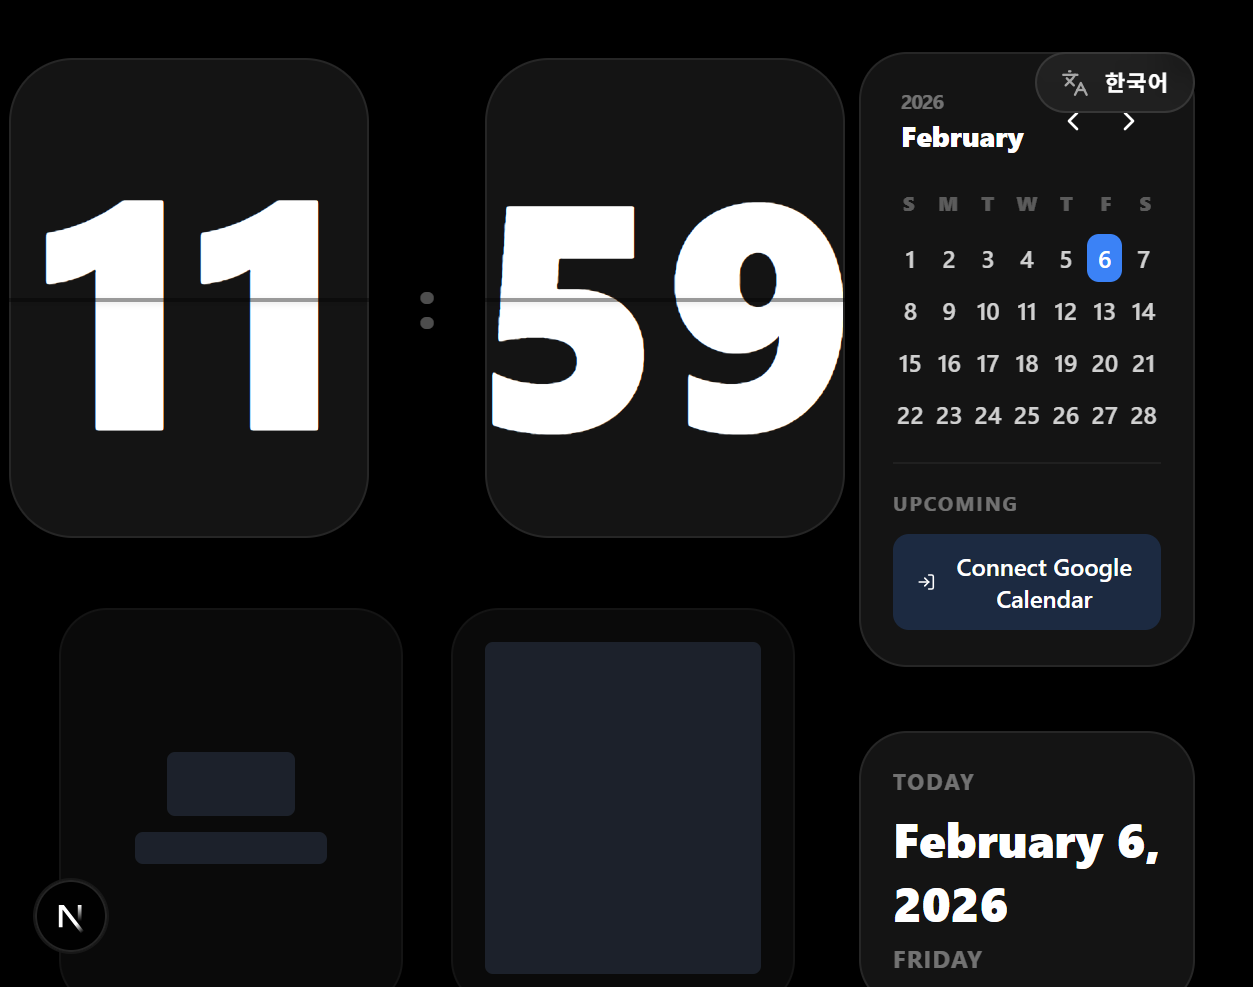
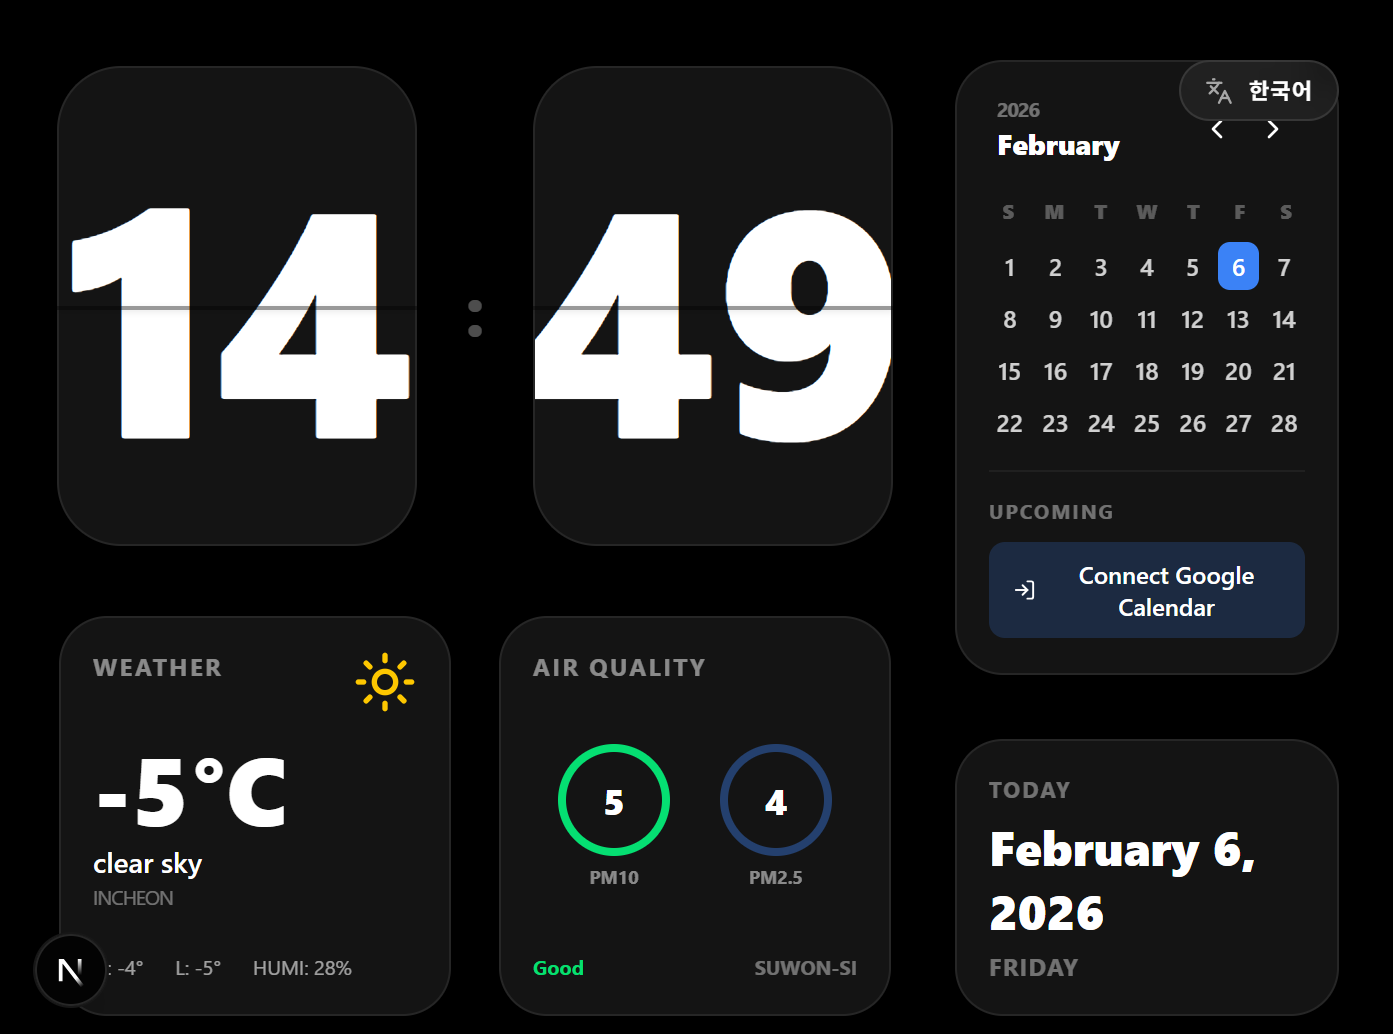
[최초배포]v1,1.0 - 웨더맵API로 위치기반 정보표기 테스트 완료!

diff --git a/src/store/services/weatherApi.js b/src/store/services/weatherApi.js
@@ -1,7 +1,6 @@
 import { createApi, fetchBaseQuery } from "@reduxjs/toolkit/query/react";
 
-// For demo purposes, we use a mock. Real implementation would use process.env.NEXT_PUBLIC_WEATHER_API_KEY
-const WEATHER_API_KEY = "your_openweathermap_api_key_here";
+const WEATHER_API_KEY = process.env.NEXT_PUBLIC_WEATHER_API_KEY;
 
 export const weatherApi = createApi({
     reducerPath: "weatherApi",

diff --git a/README.md b/README.md
@@ -1,8 +1,18 @@
-# 🕒 WebDeskClock (웹 데스크 클락)
+# 🕒[PWA] 웹데스크클럭-플립클럭
 
-**WebDeskClock**은 사용자의 데스크테리어(Deskterior)를 완성해주는 프리미엄 웹 기반 데스크 시계 및 일정 관리 대시보드입니다. 모던한 디자인, 실시간 정보 제공, 그리고 편리한 접근성을 한데 담았습니다.
+![Next.js](https://img.shields.io/badge/Next.js-000000?style=for-the-badge&logo=nextdotjs&logoColor=white) ![React](https://img.shields.io/badge/React-61DAFB?style=for-the-badge&logo=react&logoColor=black) ![Redux](https://img.shields.io/badge/Redux-764ABC?style=for-the-badge&logo=redux&logoColor=white) ![TailwindCSS](https://img.shields.io/badge/Tailwind_CSS-38B2AC?style=for-the-badge&logo=tailwind-css&logoColor=white) ![Framer Motion](https://img.shields.io/badge/Framer_Motion-0055FF?style=for-the-badge&logo=framer&logoColor=white) ![PWA](https://img.shields.io/badge/PWA-5A0FC8?style=for-the-badge&logo=pwa&logoColor=white) ![Language](https://img.shields.io/badge/Language-KO%20%2F%20EN-blue?style=for-the-badge)
+
+**WebDeskClock**은 단순한 시계를 넘어, 작업 공간의 품격을 높여주는 **프리미엄 올인원 데스크 대시보드**입니다.
+
+모던하고 세련된 **글래스모피즘(Glassmorphism) 디자인**을 바탕으로 제작되었으며, 실시간 시간, 날씨, 대기질, 그리고 구글 캘린더 일정을 한눈에 파악할 수 있는 최상의 시각적 경험을 제공합니다. 보조 모니터나 태블릿을 활용하여 데스크테리어(Deskterior)를 완성하고 싶은 사용자들을 위해 최적화되었습니다.
+
+- **데스크테리어의 완성**: 미니멀한 다크 모드와 부드러운 애니메이션이 조화를 이루는 프리미엄 디자인.
+- **지능형 정보 허브**: 현재 위치 기반의 실시간 기상 상태와 미세먼지 수치를 직관적으로 제공.
+- **원활한 연동성**: 구글 캘린더 동기화를 통해 업무와 일상의 스케줄을 실시간으로 확인.
+- **혁신적인 PWA 경험**: 브라우저의 군더더기를 제거한 풀스크린 모드와 자유로운 창 이동(Drag-to-move) 기능 지원.
 
 ---
+
 
 
 ## ✨ 핵심 기능
@@ -61,10 +71,29 @@ cd calendar-clock
 npm install
 ```
 
-### 2. 환경 변수 설정
-`.env.local` 파일을 생성하고 필요한 API 키를 설정합니다 (Weather API, Google OAuth 등).
+### 2. 날씨 API 설정 (OpenWeatherMap)
+날씨 및 대기질 정보를 표시하기 위해 OpenWeatherMap API 키가 필요합니다.
 
-### 3. 개발 서버 실행
+1.  **계정 생성**: [OpenWeatherMap 공식 사이트](https://openweathermap.org/)에 접속하여 가입합니다.
+2.  **이메일 인증**: 가입 후 등록한 이메일로 발송된 확인 메일을 반드시 인증해야 API 키가 활성화됩니다.
+3.  **API 키 확인**: 로그인 후 [API keys](https://home.openweathermap.org/api_keys) 탭에서 발급된 `Default` 키를 복사합니다.
+4.  **활성화 대기**: 새 API 키는 활성화까지 **최소 30분에서 최대 2시간**이 소요될 수 있습니다. (즉시 작동하지 않을 경우 기다려 주세요.)
+
+### 3. 환경 변수 설정
+프로젝트 루트 디렉토리에 `.env.local` 파일을 생성하고 아래와 같이 키를 입력합니다.
+
+```env
+# 날씨 API 설정 (NEXT_PUBLIC_ 접두사 필수)
+NEXT_PUBLIC_WEATHER_API_KEY=복사한_API_키_입력
+
+# NextAuth 설정 (구글 캘린더 연동 시 필요)
+NEXTAUTH_URL=http://localhost:3000
+NEXTAUTH_SECRET=임의의_문자열
+GOOGLE_CLIENT_ID=구글_클라이언트_ID
+GOOGLE_CLIENT_SECRET=구글_클라이언트_시크릿
+```
+
+### 4. 개발 서버 실행
 ```bash
 npm run dev
 ```
@@ -125,11 +154,8 @@ src/
 ## 📝 릴리즈 노트 (Release Notes)
 
 ### **v1.1.0 (2026-02-06)**
-- **하이드레이션 오류 해결**: 서버와 클라이언트 간의 날짜/시간 불일치로 인한 *Hydration Failed* 오류를 `mounted` 상태 관리를 통해 완벽히 해결했습니다.
-- **다국어 지원 시스템 도입**: 한국어와 영어 간의 실시간 전환 기능을 추가했습니다. (Redux 전역 상태 관리 및 `LanguageToggle` 컴포넌트 추가)
-- **캘린더 UI 최적화**: 날짜 그리드의 수직 간격을 줄여 더욱 콤팩트한 레이아웃을 구현하고, 일정 연동 버튼의 위치를 상단으로 조정했습니다.
-- **PWA 사용자 경험 개선**:
-  - `display: fullscreen` 설정을 통해 브라우저 헤더를 완전히 제거했습니다.
-  - `-webkit-app-region: drag` 설정을 추가하여 프레임리스 창 모드에서도 본문의 빈 공간을 드래그하여 창을 자유롭게 이동할 수 있도록 개선했습니다.
-- **기타 수정**: 요일 계산 로직 수정 및 전체적인 UI 텍스트 번역 완성도를 높였습니다.
+- **다국어 및 PWA 강화**: 한국어/영어 실시간 전환 및 윈도우 드래그 이동 기능 추가.
+- **UI/UX 최적화**: 1263x1011 고정 해상도 및 콤팩트한 캘린더 레이아웃 적용.
+- **안정성 및 보안**: 하이드레이션 오류 해결 및 API 키 환경 변수 통합 관리.
+- **문서화 보강**: 날씨 API 설정 및 PWA 설치 가이드 상세 업데이트.
 
